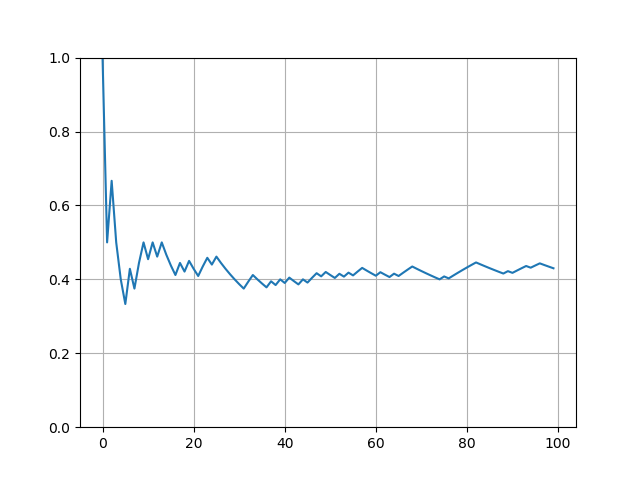
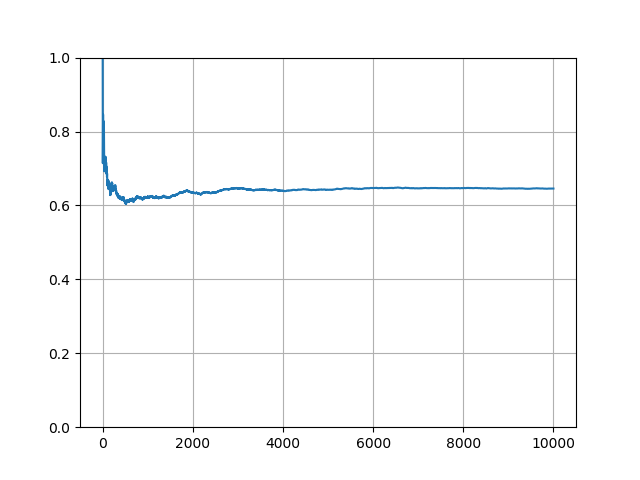
modify possible_hand

diff --git a/src/run.py b/src/run.py
@@ -8,7 +8,7 @@ from keras.models import Sequential
 from keras.layers import Dense, Activation
 from time import time 
 t1 = time()
-total_episode = 100 #訓練回数
+total_episode = 10000 #訓練回数
 
 class QFunction():
 
@@ -36,7 +36,6 @@ class QFunction():
         
 def train_q_function(q_function, memory, target_q_function,
                      batch_size=32, gamma=0.9, n_epoch=1):
-    tt_0=time()
         
     for e in range(n_epoch): #1つの試合の経験値(memory)から学び取る回数
         perm = np.random.permutation(len(memory)) #memoryのデータは時系列データなのでデータ間に相関が出ないようにrandom samplingする
@@ -58,7 +57,7 @@ def train_q_function(q_function, memory, target_q_function,
                 max_q_s_a_dash 
             
             q_function.model.fit(x, t, verbose=0) #学習        
-    print("set_weightst time : {:.3f}s".format(time()-tt_0))        
+       
 class Memory(object):
 
     def __init__(self, size=128):
@@ -89,7 +88,7 @@ class Memory(object):
         self.write(ind, s, a, s_dash, r, e)
         self.counter += 1
 
-q_function = QFunction()
+q_function = QFunction(summary=True)
 memory = Memory(size=128)
 
 CPU = reversi.player.RandomPlayer('ランダム')
@@ -111,10 +110,10 @@ for episode in tqdm(range(total_episode)):
     game = reversi.Reversi(B,W)
     game.main_loop(episode=episode, print_game=False)
     train_q_function(q_function, memory, target_q_function)
-    if episode%sep==0:
-        print("WinCounts ME:{} Enemy:{} Draw:{}, rate:{:.3f}".format(\
-            ME.record.count(1),CPU.record.count(1),CPU.record.count(0),\
-            sum(ME.record)/len(ME.record)))
+    # if episode%sep==0:
+    #     print("WinCounts ME:{} Enemy:{} Draw:{}, rate:{:.3f}".format(\
+    #         ME.record.count(1),CPU.record.count(1),CPU.record.count(0),\
+    #         sum(ME.record)/len(ME.record)))
 
 # game = reversi.Reversi(CPU,ME)
 # game.main_loop(print_game=True)

diff --git a/src/reversi/player.py b/src/reversi/player.py
@@ -142,11 +142,13 @@ class NNQPlayer(Player):
         else:
             x = np.array(s).reshape(1,64) 
             q = self.q_function.model.predict(x).reshape(-1) #shape(65,)で返る(パスq値1変数+盤目q値64変数)
-            q_nopass = q[1:]
-            q_nopass[np.where(np.array(s)!=0)] = -np.inf
-            q[1:] = q_nopass
-            hand = np.argmax(q)
-        
+            max_q = -np.inf
+            hand = 0
+            for i in possible_hand:
+                if max_q < q[i]:
+                    max_q = q[i]
+                    hand = i
+                    
         if self.s_last is not None: #状態sと行動handを記憶
             self.memory.append(self.s_last, self.a_last, s, 0, 0)
         self.s_last = s
